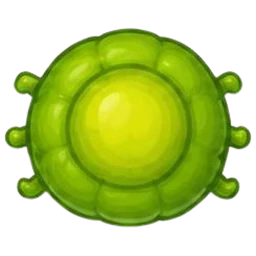
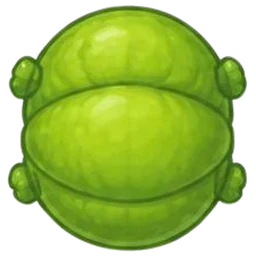
Chenille qui fait des trous et Poussin Volant : les planches Canva découpées
Deuxième planche de la Chenille (tête vue de dessus, anneaux, queue, repas,
soleil, lune…), la grande feuille qui servira de terrain, la planche du
Poussin et son panorama de ferme, avec leurs crédits. Pas encore utilisées
par les jeux : les maquettes attendent l'accord du père.

Claude-Session: https://claude.ai/code/session_012vD5Kno3jCdeuFBc1MmjTf

diff --git a/public/assets/CREDITS.md b/public/assets/CREDITS.md
@@ -82,6 +82,23 @@ fruits (« A sprite sheet for a children's caterpillar tablet game where
 everything is seen from directly ABOVE (top-down view), in exactly the same
 art style as the reference image… »), avec la liste des douze sujets.
 
+## La Chenille qui fait des trous et Poussin Volant (25/09)
+
+Deuxième planche de la Chenille (tête vue de dessus, normale et qui croque,
+anneaux, queue, petite feuille, feuille trouée, soleil, lune, pomme trouée —
+et la poire et la prune rangées avec les fruits, `fruits/poire.webp`,
+`fruits/prune.webp`), la grande feuille qui sert de terrain
+(`chenille/grande-feuille.webp`), la planche de Poussin Volant (le poussin
+ailes hautes, ailes basses et étourdi, la plume, la maman poule, le
+poulailler, le poteau, les bottes de foin, le grain, le nuage, l'arbre —
+`poussin/`) et son panorama de ferme (`poussin/panorama.webp`) : quatre
+**illustrations générées avec Canva** le 25/09/2026, avec la planche des
+plantes en référence de style (médias Canva `MAHWJbLstl8`, `MAHWJUzb2fQ`,
+`MAHWJetaNbc`, `MAHWJRg3kx0`, fonds retirés), déposées par le père dans son
+Drive puis découpées en WebP. Les éléments de la première planche de la
+Chenille gardés : chrysalide, papillon, buisson, marguerites, caillou,
+coccinelle.
+
 ## Voix des animaux (`sounds/animals/`)
 
 Dix cris d'animaux enregistrés, pris sur **Wikimedia Commons** (licences
